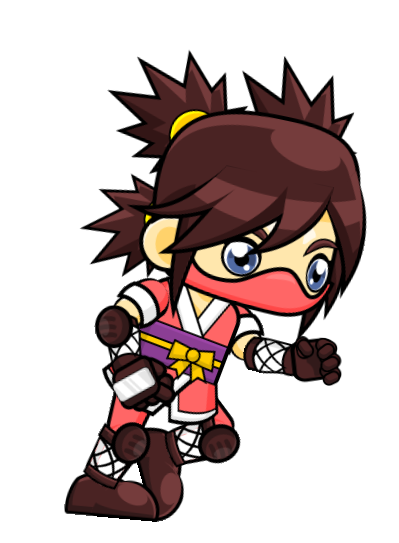
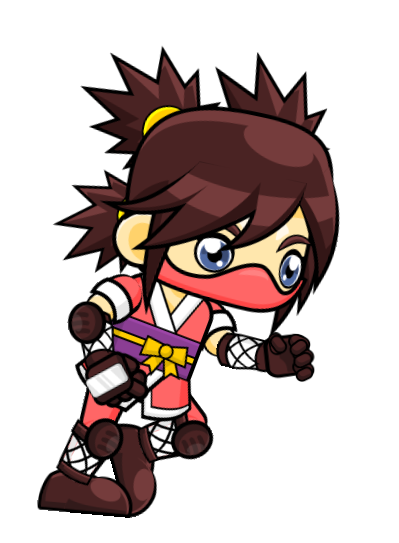
added sprites for running, positioned images better around collision boundaries

diff --git a/main.html b/main.html
@@ -308,6 +308,7 @@ function Player() {
 	this.h = (50 * 1.5);
 	this.maxSpeed = 6;
 	this.speed = 0;
+	this.facing = "right";
 	this.jumpSpeed = 0;
 	this.maxJumpSpeed = 6;
 	this.jumpHeight = 500;
@@ -326,28 +327,91 @@ function Player() {
 			images: [],
 			switchIndex: 0,
 			switchTimer: 0,
+			switchTarget: 5,
 			collisionAreas: {
 				w: 29,
-				h: 50,
+				h: 52,
 			},
+			imageAreas: {
+				x: 10,
+				y: 22,
+				w: 58,
+				h: 100,
+			},
+			offsetX: 10,
+			offsetY: 10,
 		},
 		run: {
 			images: [],
 			switchIndex: 0,
 			switchTimer: 0,
+			switchTarget: 2,
 			collisionAreas: {
-				w: 37.6,
+				w: 35,
 				h: 52,
 			},
+			imageAreas: {
+				x: 10,
+				y: 18,
+				w: 70,
+				h: 100,
+			},
+			offsetX: 10,
+			offsetY: 16,
 		},
 		jump: {
 			images: [],
 			switchIndex: 0,
 			switchTimer: 0,
+			switchTarget: 0,
 			collisionAreas: {
-				w: 50,
-				h: 54,
+				w: 25,
+				h: 52,
 			},
+			imageAreas: {
+				x: 20,
+				y: 20,
+				w: 80,
+				h: 110,
+			},
+			offsetX: 13,
+			offsetY: 18,
+		},
+		standThrow: {
+			images: [],
+			switchIndex: 0,
+			switchTimer: 0,
+			switchTarget: 1,
+			collisionAreas: {
+				w: 25,
+				h: 52,
+			},
+			imageAreas: {
+				x: 20,
+				y: 30,
+				w: 80,
+				h: 110,
+			},
+			offsetX: 13,
+			offsetY: 18,
+		},
+		jumpThrow: {
+			images: [],
+			switchIndex: 0,
+			switchTimer: 0,
+			switchTarget: 1,
+			collisionAreas: {
+				w: 25,
+				h: 52,
+			},
+			imageAreas: {
+				x: 20,
+				y: 30,
+				w: 80,
+				h: 110,
+			},
+			offsetX: 13,
+			offsetY: 18,
 		},
 	};
 	this.updatePlayerImage = function() {
@@ -359,7 +423,7 @@ function Player() {
 				this.drawing[this.status].switchIndex = 10 - Player1.jumpSpeed;
 			}
 		} else {
-			if (this.drawing[this.status].switchTimer > 5) {
+			if (this.drawing[this.status].switchTimer > this.drawing[this.status].switchTarget) {
 				this.drawing[this.status].switchIndex += 1;
 				this.drawing[this.status].switchTimer = 0;
 			}	
@@ -387,6 +451,10 @@ function loadPlayerImages() {
 	for (i = 0; i < 10; i++) {
 		Player1.drawing.jump.images[i] = new Image();
 		Player1.drawing.jump.images[i].src = 'images/Jump__00' + i +'.png';
+	}
+	for (i = 0; i < 10; i++) {
+		Player1.drawing.standThrow.images[i] = new Image();
+		Player1.drawing.standThrow.images[i].src = 'images/Throw__00' + i +'.png';
 	}
 }
 loadPlayerImages();
@@ -520,10 +588,38 @@ function drawPlayer() {
 	c.stroke();	
 	
 	//c.drawImage(Player1.drawing[Player1.status].images[0], Player1.x - camera.x, Player1.y - camera.y, Player1.w, Player1.h);
+	console.log(Player1.status);
+	console.log(Player1.onPlatform);
+	console.log(Player1.y);
+	console.log(Player1.h);
+	console.log(jumping);
 	
-	c.drawImage(Player1.drawing[Player1.status].images[Player1.drawing[Player1.status].switchIndex], Player1.x - camera.x - Player1.imageSizeOffset, Player1.y - camera.y - Player1.imageSizeOffset, Player1.w + (Player1.imageSizeOffset + 2), Player1.h + (Player1.imageSizeOffset));
+	if (Player1.status === "jump") {
+		var jumpOffset = Player1.drawing[Player1.status].offsetX + 0;
+	} else {
+		var jumpOffset = 0;
+	}
 	
 	
+		c.save();
+		
+		
+	if (Player1.facing === "left") {
+		c.translate(Player1.x - camera.x + Player1.w, 
+		Player1.y - camera.y);
+		c.scale(-1, 1);
+	}	else {
+		c.translate(Player1.x - camera.x, 
+		Player1.y - camera.y);
+	}
+		c.drawImage(
+		Player1.drawing[Player1.status].images[Player1.drawing[Player1.status].switchIndex], 
+		0 - Player1.drawing[Player1.status].imageAreas.x, 
+		0 - Player1.drawing[Player1.status].imageAreas.y, 
+		Player1.drawing[Player1.status].imageAreas.w,
+		Player1.drawing[Player1.status].imageAreas.h);
+		
+		c.restore();
 	
 	c.closePath();
 }
@@ -600,21 +696,20 @@ function collidesSpecific(ax, ay, aw, ah, bx, by, bw, bh) {
 
 // collision detection between player and platforms
 function checkPlatform() {
-	//var onPlatform = -1;
-	var onPlatform;
-	if (Player1.onPlatform === -1) {
+	var onPlatform = -1;
+	//var onPlatform;
+	//if (Player1.onPlatform === -1) {
 		thePlatforms.forEach ( function(i, j) {
-			if (collidesSpecific(Player1.x, Player1.y + Player1.jumpSpeed + gravity, Player1.w, Player1.h, i.x, i.y, i.w, i.h)) {
-				console.log(j);
+			if (collidesSpecific(Player1.x, Player1.y + 3, Player1.w, Player1.h, i.x, i.y, i.w, i.h)) {
+				console.log("ggg");
 				onPlatform = j;
 				jumped = 0;
 				jumping = false;
 				Player1.y = i.y - Player1.h;
 			}
 		});
-	}
+	//}
 	if (onPlatform > -1) {
-		console.log("heree");
 		Player1.onPlatform = onPlatform;
 		if (Player1.onPlatform >= thePlatforms.length - 3) {
 			pushPlatforms();
@@ -742,6 +837,16 @@ function checkCoinCollision() {
 }
 
 function createBullet(targetX, targetY, shooterX, shooterY) {
+	if (Player1.status === "idle" || Player1.status === "jump") {
+		Player1.status = "standThrow";
+		Player1.drawing.standThrow.switchIndex = 0;
+		Player1.drawing.standThrow.switchTimer = 0;
+		if (targetX > Player1.x + (Player1.w / 2)) {
+			Player1.facing = "right";
+		} else {
+			Player1.facing = "left";
+		}
+	}
 	var deltaX = targetX - shooterX;
 	var deltaY = targetY - shooterY;
 	var angle = Math.atan2(deltaY, deltaX);
@@ -789,6 +894,7 @@ function updateBullets() {
 function drawBullets() {
 	c.beginPath();
 	theBullets.forEach(function(i, j) {
+		c.fillStyle = "rgb(" + platformColors.currentTop.r + "," + platformColors.currentTop.g + "," + platformColors.currentTop.b;
 		c.fillRect(i.x, i.y - camera.y, i.w, i.h, i.color);
 	});
 	if (theBullets[0]) {
@@ -953,7 +1059,6 @@ updateSun();
 updateSky();
 drawBackground();
 
-
 // detect player movement
 updatePlayer();
 updateCamera();
@@ -987,7 +1092,7 @@ drawHUD();
 // key press detection
 
 function updatePlayer(){
-	console.log(Player1.onPlatform);
+	
 	Player1.updatePlayerImage();
 	
 	
@@ -1015,6 +1120,7 @@ function updatePlayer(){
 		if (Player1.speed > 0) {
 			Player1.speed -= .2;
 		}
+		Player1.facing = "left";
 	}
 	
 	if (keys[68]) {
@@ -1028,6 +1134,7 @@ function updatePlayer(){
 		if (Player1.speed < 0) {
 			Player1.speed += .2;
 		}
+		Player1.facing = "right";
 	}
 	
 	if (!keys[68] && !keys[65]) {
@@ -1051,7 +1158,7 @@ function updatePlayer(){
 	thePlatforms.forEach ( function(i, j) {
 	if (collidesSpecific(Player1.x + Player1.speed, Player1.y - Player1.jumpSpeed, Player1.w, Player1.h, i.x, i.y, i.w, i.h)) {
 
-			console.log("Platform Collision");
+			//console.log("Platform Collision");
 			Player1.speed = 0;
 			
 			if (Player1.x < i.x + i.w && Player1.x + Player1.w > i.x) {
@@ -1136,11 +1243,11 @@ function updatePlayer(){
 	
 	if (moveX || moveY) {
 	
-		if (moveY) {
+		//if (moveY) {
 			//if (Player1.onPlatform === -1) {
 				checkPlatform();
 			//}
-		}
+		//}
 	
 		theBadGuys.forEach(function(i,j) {
 			if (collidesSpecific(Player1.x + (Player1.speed * 2), Player1.y - Player1.jumpSpeed + gravity + 1, Player1.w, Player1.h, i.x, i.y, i.w, i.h)) {
@@ -1181,7 +1288,7 @@ function updatePlayer(){
 	if (moveY) {
 		Player1.y -= Player1.jumpSpeed;
 		if (Player1.onPlatform === -1) {
-			console.log("here");
+			//console.log("here!!!!!!");
 			Player1.y += gravity;
 		}
 	}
@@ -1196,9 +1303,15 @@ function updatePlayer(){
 	}
 	
 	if (!jumping && Player1.speed === 0) {
-		Player1.status = "idle";
-		Player1.w = Player1.drawing.idle.collisionAreas.w * 1.5;
-		Player1.h = Player1.drawing.idle.collisionAreas.h * 1.5;
+		if (Player1.status === "standThrow") {
+			if (Player1.drawing.standThrow.switchIndex === 8) {
+				Player1.status = "idle";
+			}
+		} else {
+			Player1.status = "idle";
+			Player1.w = Player1.drawing.idle.collisionAreas.w * 1.5;
+			Player1.h = Player1.drawing.idle.collisionAreas.h * 1.5;
+		}
 	}
 	if (Player1.onPlatform > -1 && Player1.speed != 0) {
 		Player1.status = "run";
@@ -1207,8 +1320,8 @@ function updatePlayer(){
 	}
 	if (Player1.onPlatform === -1 || jumping) {
 		Player1.status = "jump";
-		Player1.w = Player1.drawing.run.collisionAreas.w * 1.5;
-		Player1.h = Player1.drawing.run.collisionAreas.h * 1.5;
+		Player1.w = Player1.drawing.jump.collisionAreas.w * 1.5;
+		Player1.h = Player1.drawing.jump.collisionAreas.h * 1.5;
 	}
 	
 	
